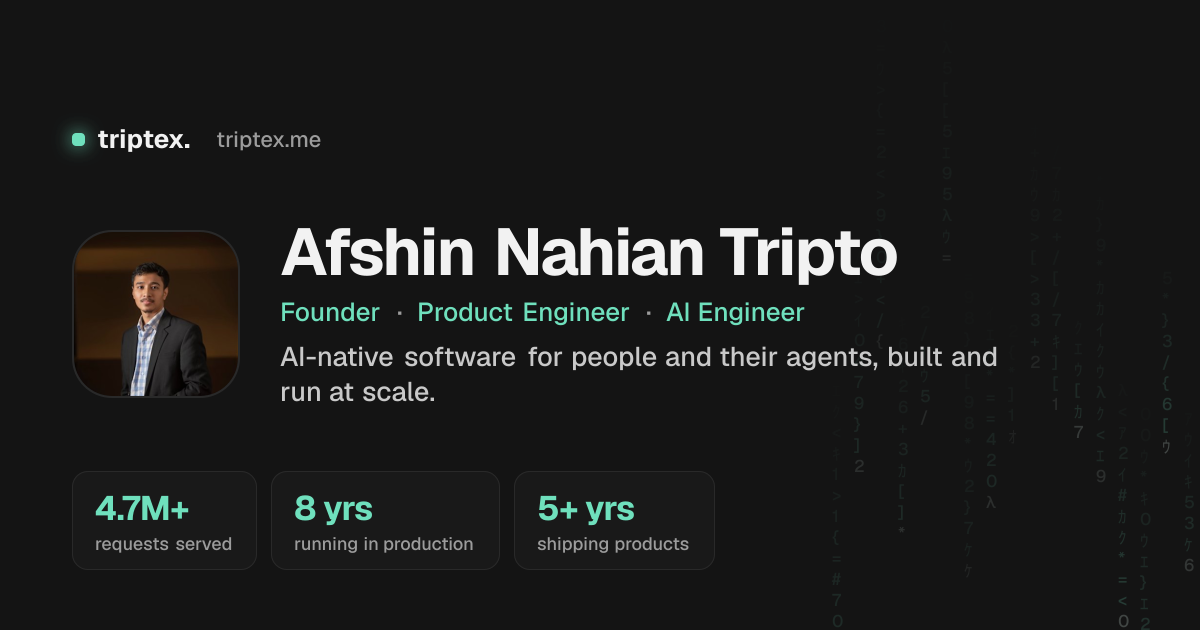
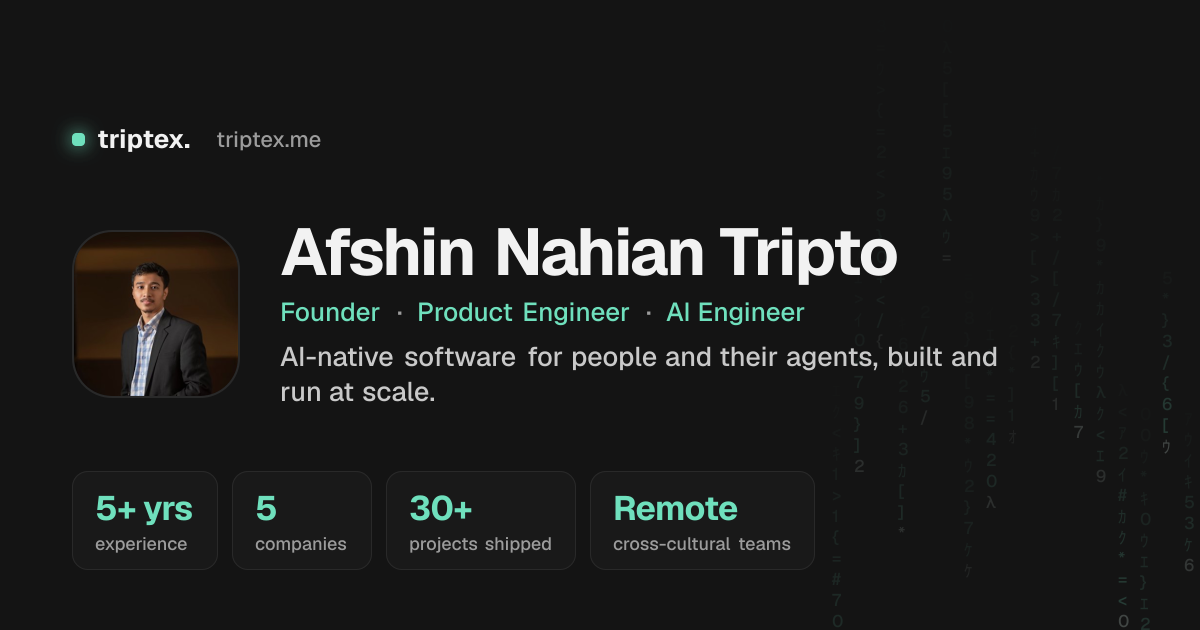
og: career-wide figures on the home share image
Replace the NoteBot-specific numbers with 5+ yrs experience, 5 companies,
30+ projects shipped and remote, cross-cultural teams.

Claude-Session: https://claude.ai/code/session_01StsFQBVhVCkJ1TJcMSofjL

Changed region(s): [[0.0617, 0.7841, 0.6783, 0.8746]]

diff --git a/src/app/opengraph-image.tsx b/src/app/opengraph-image.tsx
@@ -11,10 +11,12 @@ export default function Image() {
     roles: ["Founder", "Product Engineer", "AI Engineer"],
     pitch: "AI-native software for people and their agents, built and run at scale.",
     photo: `${person.photo}?w=336&h=336&fit=fill&f=face&fm=jpg&q=85`,
+    // career-wide figures only (no single-project numbers)
     stats: [
-      { value: "4.7M+", label: "requests served" },
-      { value: "8 yrs", label: "running in production" },
-      { value: "5+ yrs", label: "shipping products" },
+      { value: "5+ yrs", label: "experience" },
+      { value: "5", label: "companies" },
+      { value: "30+", label: "projects shipped" },
+      { value: "Remote", label: "cross-cultural teams" },
     ],
   });
 }
